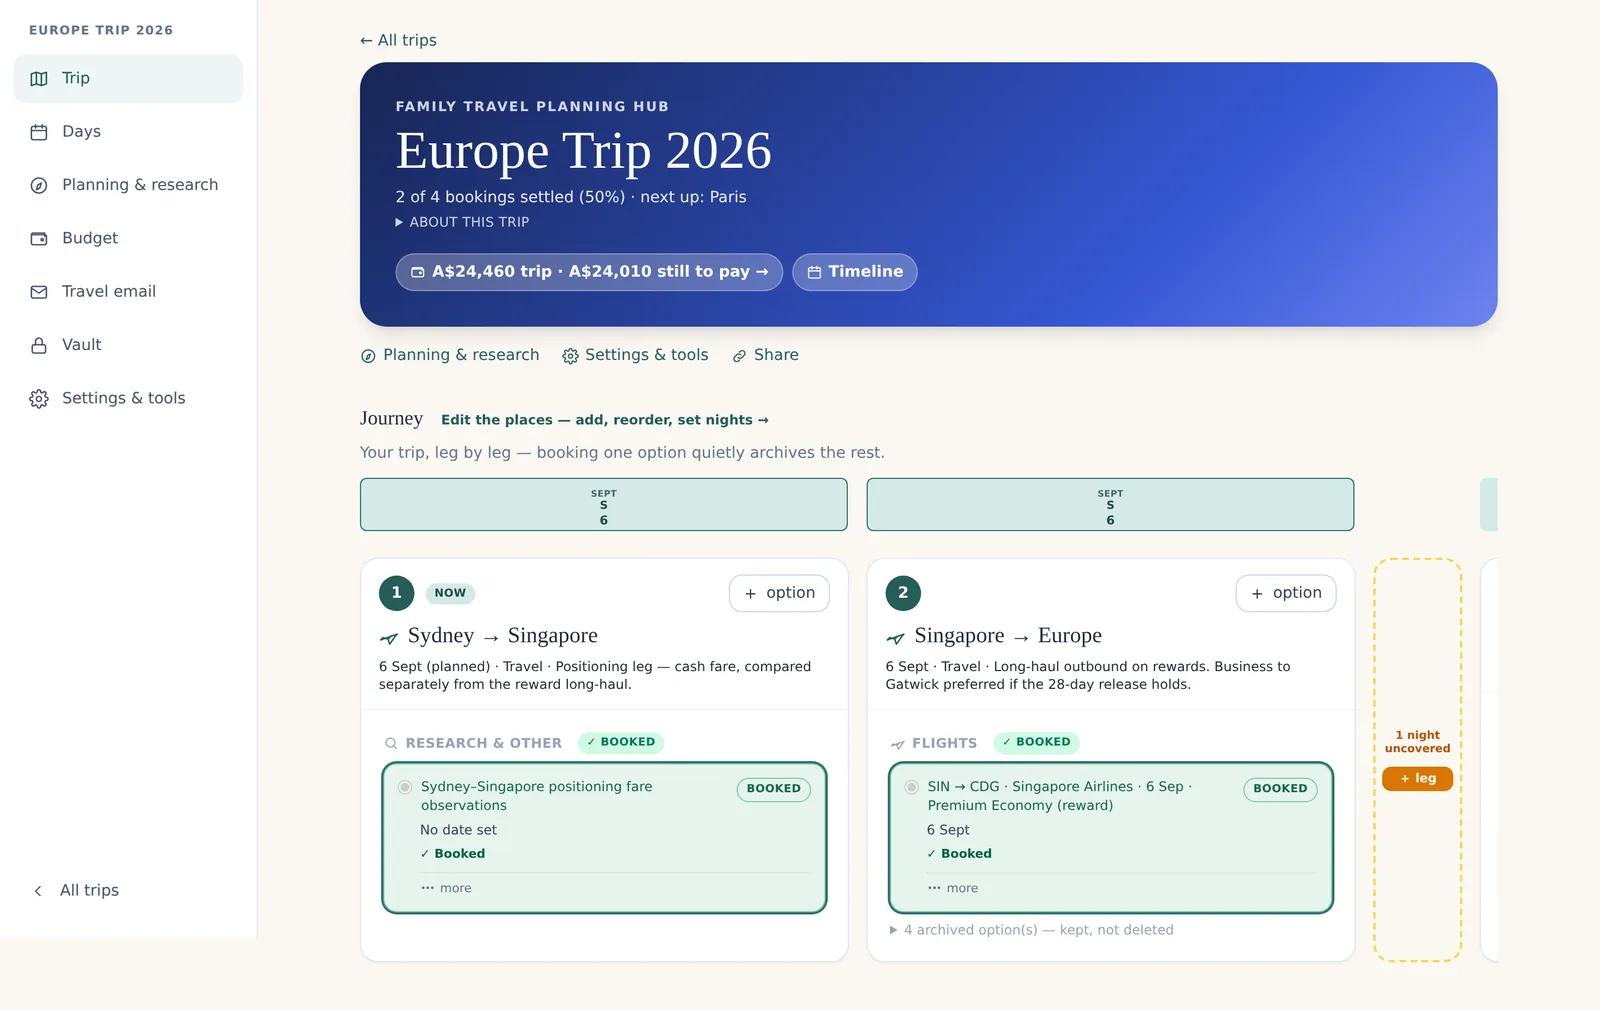
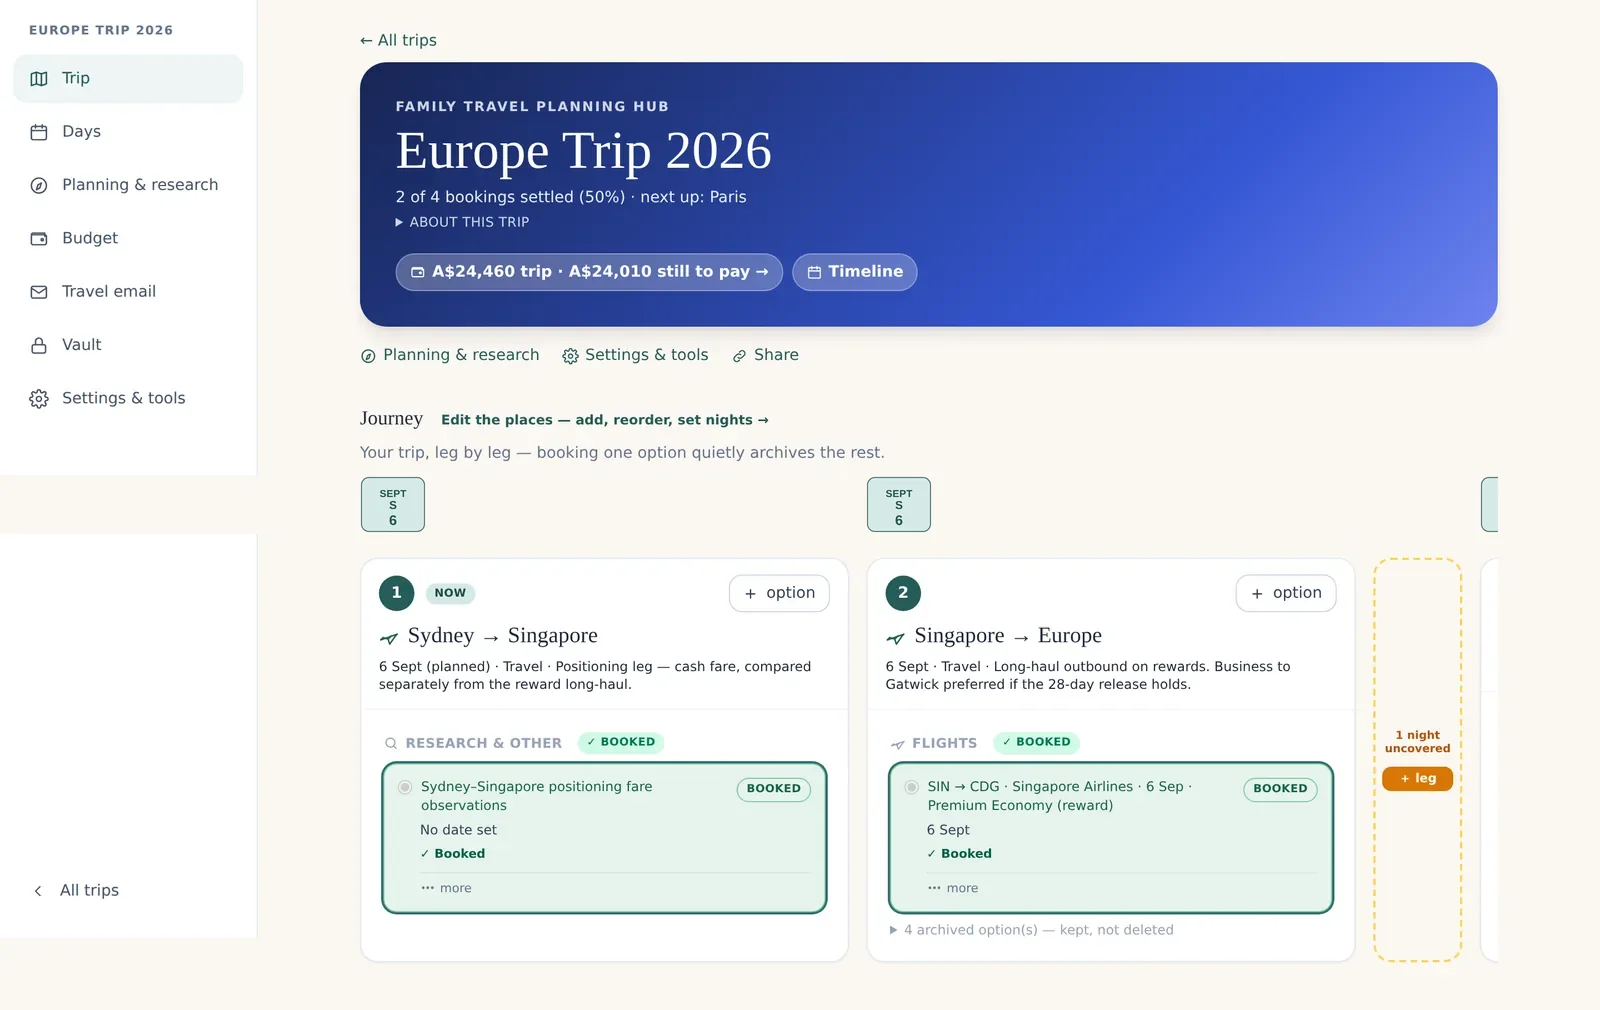
Update MaiCation screenshots and captions for clarity (#48)
* MaiCation: a day-page phone shot that shows the app working

The phone screenshot on the MaiCation page was a scrolling capture of
the sample trip in a broken state. It showed "Automatic memos are off
for this trip", "Couldn't check what's on in Paris just now", "Nothing
booked for this day", and a five-line SMTP configuration error naming
SMTP_URL, SMTP_HOST, SMTP_USER and SMTP_PASS. The bottom tab bar was
baked into the middle of the image, where the capture had scrolled past
it. The home page carried a crop of the same shot.

Replaced both with a single phone screen of the day page with the day
actually filled in: the Paris time zone and the local-that-day chip,
three bookings with the references the desk asks for, and the daily plan
memo underneath with the forecast, what's booked and what's still to
pay -- which is what the copy beside it promises. memo-phone.webp is now
780x1688 rather than 780x2128, so the image sits at a phone's proportions
instead of towering over the text beside it.

The image is a rendering of the day page rather than a capture: the app
needs an account to reach. It matches the fonts, palette and components
of trip.webp and budget.webp.

Claude-Session: https://claude.ai/code/session_01GQRaxbXg3YnWr1K54JGyxZ

* MaiCation day-page shot: one word for a reference, one name for the flat

The schedule rows said "booking 6ZK4QP" where the memo below said "ref
6ZK4QP", and the all-day banner called the flat "Paris apartment — Le
[…]

Changed region(s): [[0.2188, 0.4604, 0.8438, 0.5525]]

diff --git a/index.html b/index.html
@@ -443,7 +443,7 @@
   .gear.done .t { color: var(--ink-faint); text-decoration: line-through; text-decoration-color: rgba(62, 107, 51, 0.4); }
   .gear.done .st { color: var(--ink-faint); }
 
-  /* maication: a real screenshot rather than a vignette */
+  /* maication: a phone shot as an image rather than an inline vignette */
   .entry-shot {
     display: block; width: 100%; max-width: 280px; margin: 0 auto; height: auto;
     border: 1px solid rgba(38, 92, 90, 0.28); border-radius: 22px;
@@ -852,8 +852,8 @@
       </div>
     </div>
     <div class="entry-vis">
-      <img class="entry-shot" src="/maication/assets/memo-phone-short.webp" width="780" height="1448" alt="MaiCation's day page on a phone: Monday 7 September in Paris, the apartment check-in with its reference, and the daily memo.">
-      <p class="vignette-note">The day page, on a phone</p>
+      <img class="entry-shot" src="/maication/assets/memo-phone-short.webp" width="780" height="1448" alt="MaiCation's day page on a phone: Monday 7 September in Paris, the day's bookings with their references, and the daily memo.">
+      <p class="vignette-note">Example day page — not live data</p>
     </div>
   </article>
 

diff --git a/maication/index.html b/maication/index.html
@@ -201,7 +201,8 @@
     <h2>On the phone, once you're away</h2>
     <div class="pair">
       <div class="phone">
-        <img src="/maication/assets/memo-phone.webp" width="780" height="2128" alt="The day page for Monday 7 September on a phone: the time zone in use, the Paris apartment check-in with its reference, and the daily memo with what needs doing." loading="lazy">
+        <img src="/maication/assets/memo-phone.webp" width="780" height="1688" alt="The day page for Monday 7 September on a phone: the time zone in use, the day's bookings with their references, and the daily memo underneath, with the forecast, what's booked and what's still to pay." loading="lazy">
+        <p class="cap">Example day page — not live data</p>
       </div>
       <div>
         <h3>The day page</h3>
